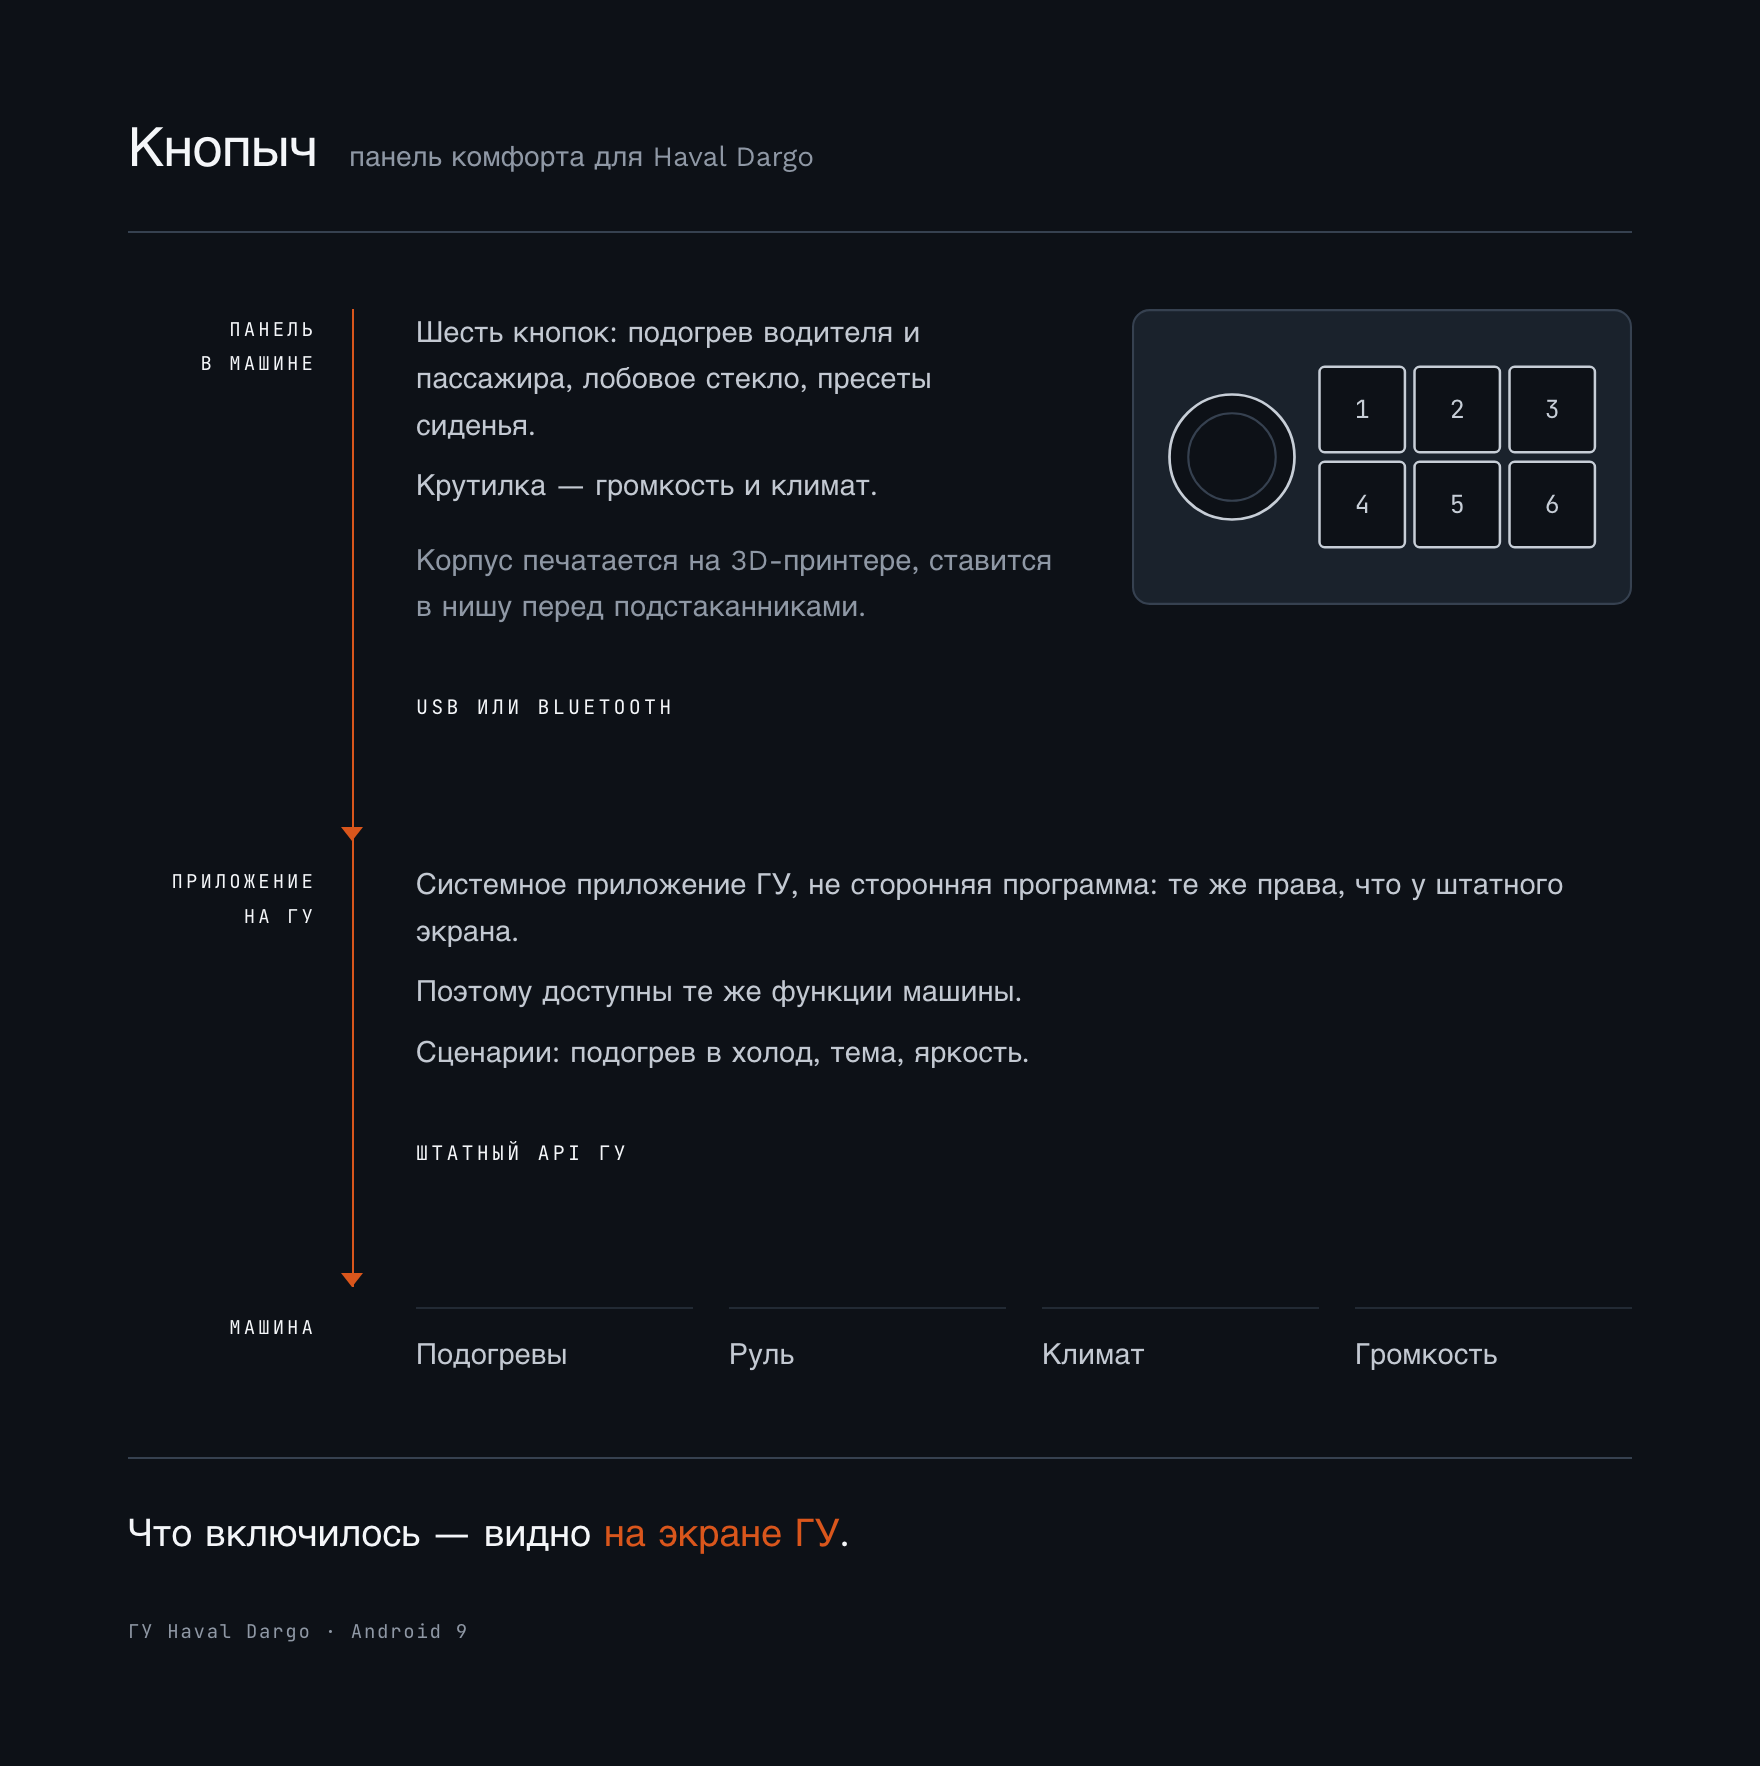
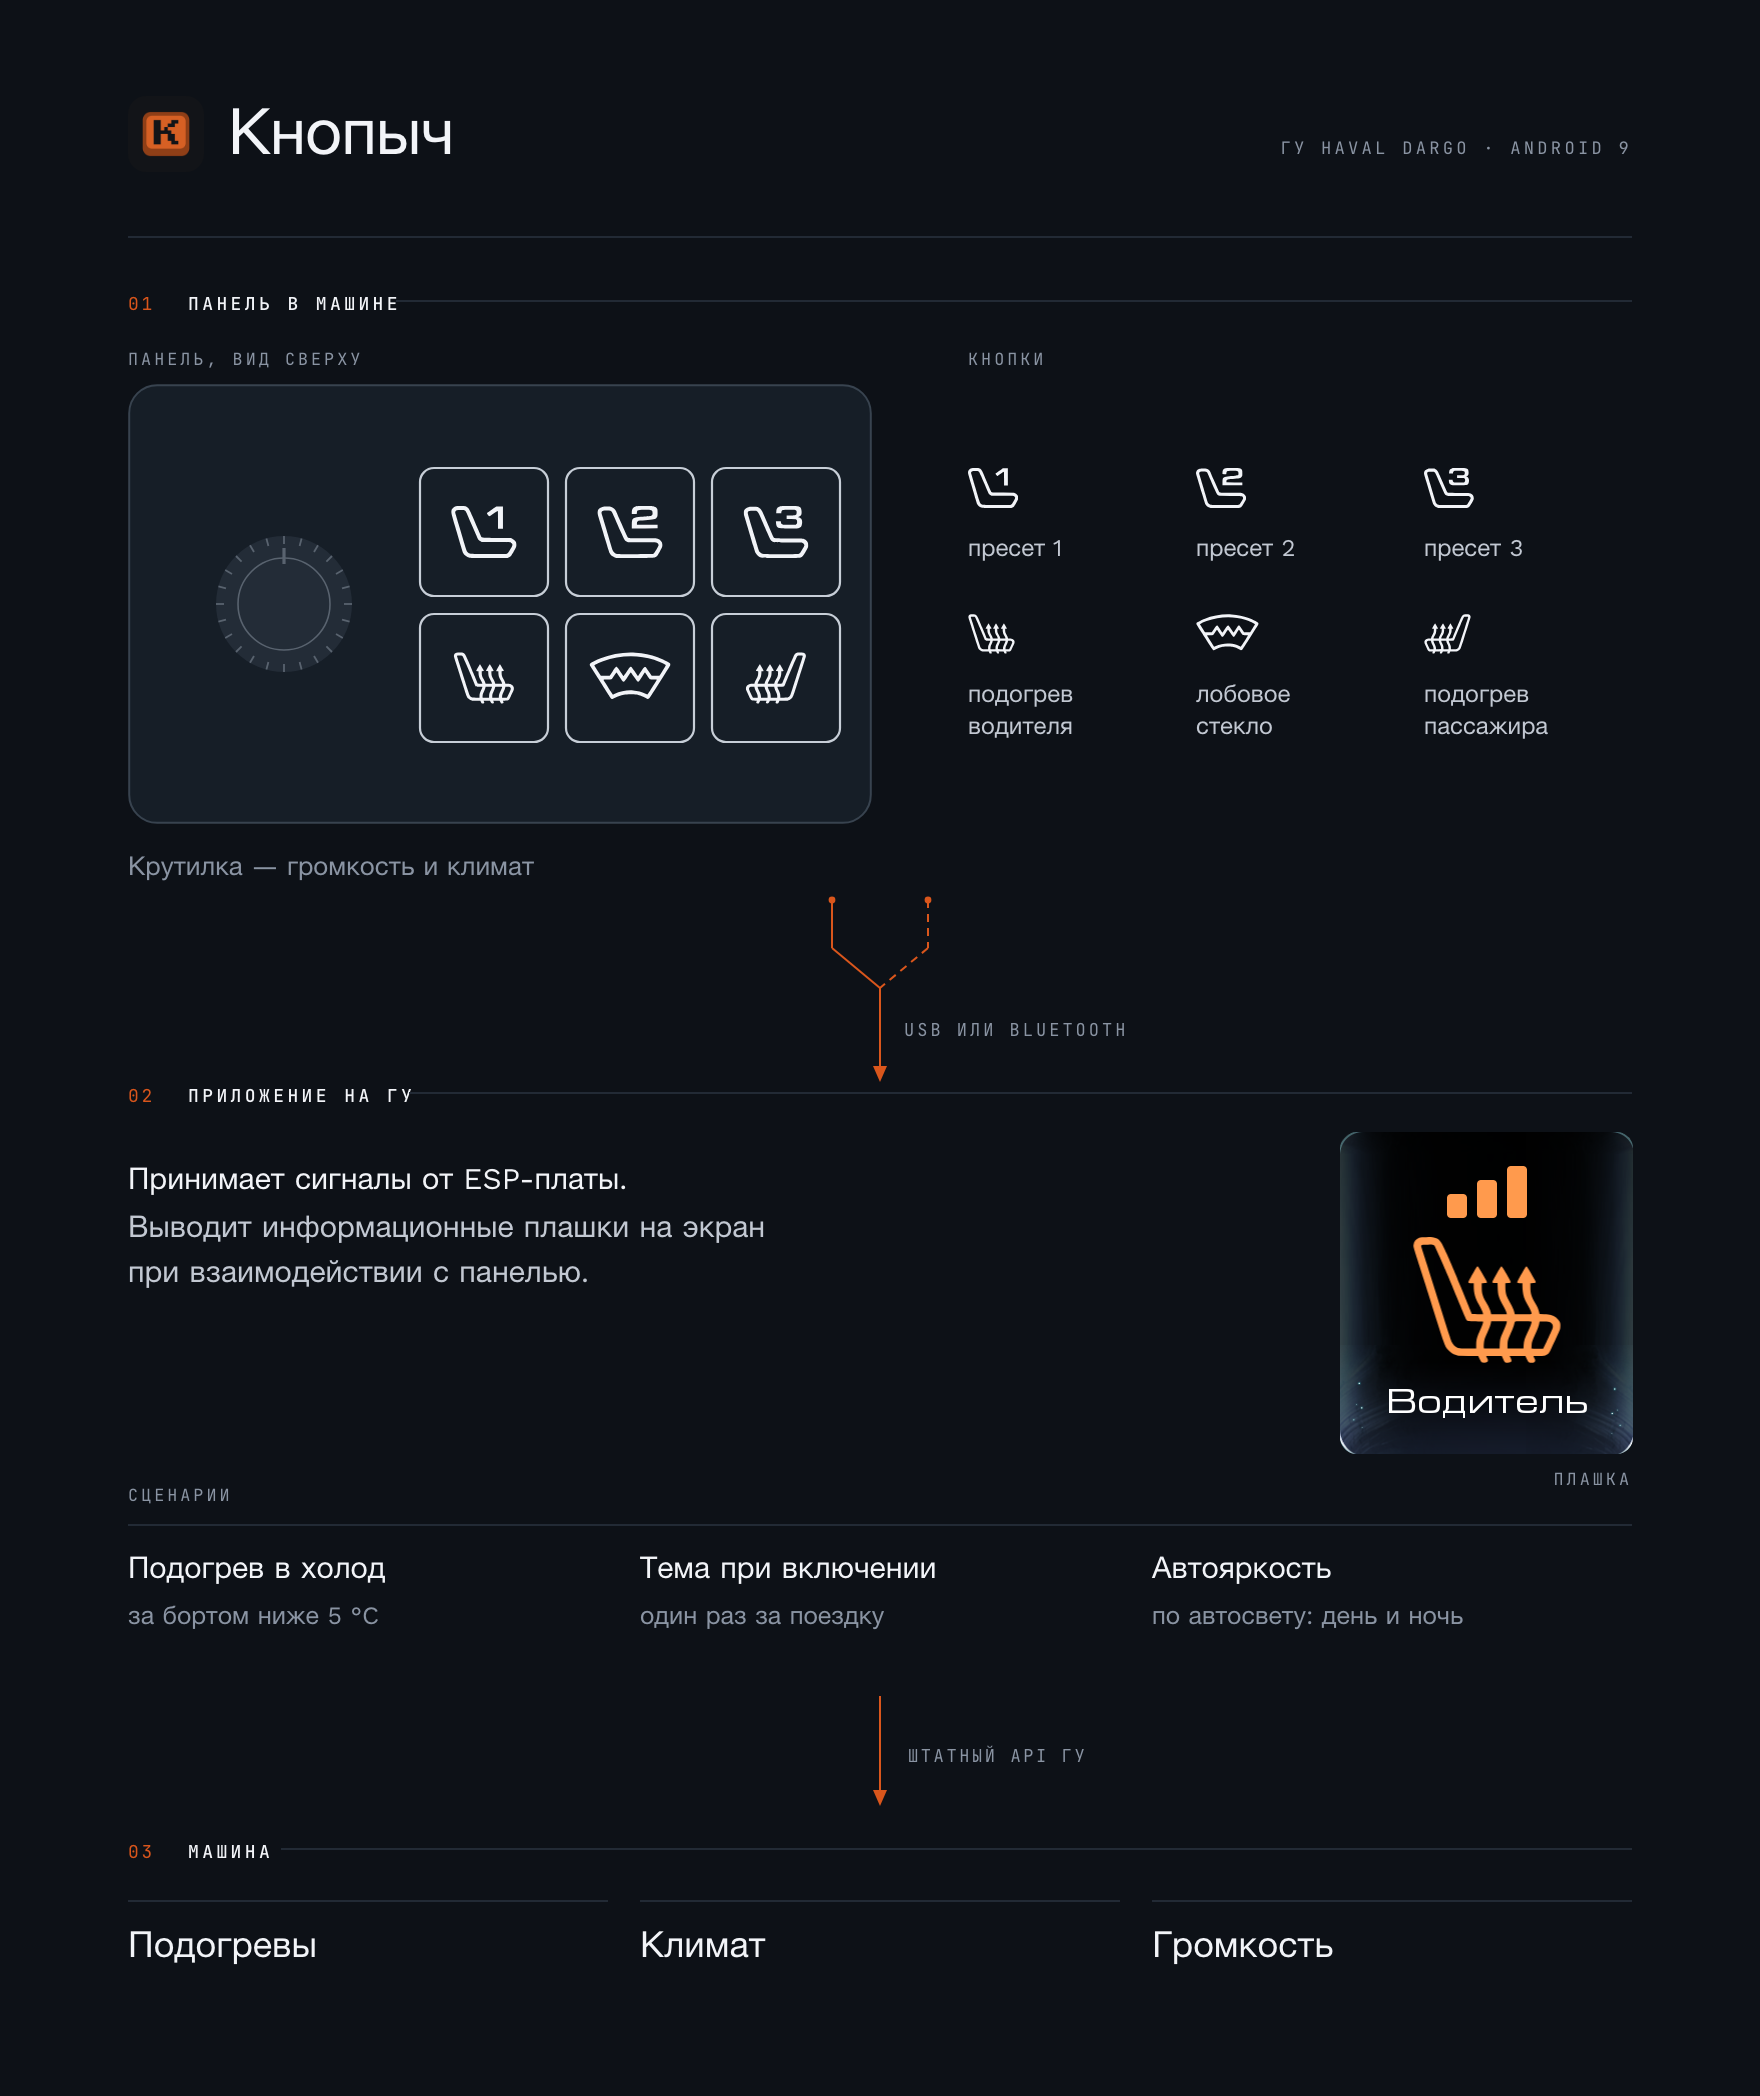
docs: обновить README и диаграммы

diff --git a/README.md b/README.md
@@ -2,15 +2,11 @@
 
 # Кнопыч (Knopych) — физическая панель управления функциями комфорта Haval Dargo
 
+[![Telegram](https://img.shields.io/badge/Telegram-%40knopych__tg-26a5e4?labelColor=555)](https://t.me/knopych_tg) [![Поддержать](https://img.shields.io/badge/%D0%9F%D0%BE%D0%B4%D0%B4%D0%B5%D1%80%D0%B6%D0%B0%D1%82%D1%8C-%D0%A1%D0%91%D0%9F-007ec6?labelColor=555)](https://finance.ozon.ru/apps/sbp/ozonbankpay/01a219a6-c1a6-7aa8-8891-a9f7f3a7dfeb)
+
 Панель с шестью кнопками для подогревов, пресетов сиденья, громкости и климата.
 Ставится в нишу перед подстаканниками, печатается на 3D-принтере, связана с головным
 устройством по USB или Bluetooth.
-
-<picture>
-  <source media="(prefers-color-scheme: dark)" srcset="docs/diagram-dark.png">
-  <source media="(prefers-color-scheme: light)" srcset="docs/diagram-light.png">
-  <img src="docs/diagram.png" width="1100" alt="Схема: панель на ESP32-S3 по USB и BLE связана с мостом на ГУ, мост вызывает API прошивки машины">
-</picture>
 
 **Что даёт**
 
@@ -19,9 +15,9 @@
 - Обратная связь — на экране ГУ: включённый подогрев и выбранный слот сиденья видны
   на плашке. Светодиоды кнопок прошивка не зажигает: панель только шлёт нажатия.
 - Крутилка — громкость. Когда открыт экран климата — задаёт температуру,
-  с удержанием — вентилятор. Нажатие крутилки открывает и закрывает климат.
-- Сценарии на ГУ: «подогрев в холод», тема при включении, автояркость по сигналу
-  автосвета.
+  с зажатой кнопкой крутилки — вентилятор. Нажатие крутилки открывает климат,
+  короткое нажатие при открытом — закрывает.
+- Сценарии на ГУ: «подогрев в холод», тема при включении, автояркость день/ночь.
 - Плашка подогрева появляется поверх любого экрана на 2,5 с — уровень видно, не
   открывая ГУ.
 
@@ -31,13 +27,19 @@
 
 ## Как это работает
 
-1. Нажимаешь кнопку — панель шлёт по USB (или по BLE) строку `!btn N`.
+1. Нажимаешь кнопку — панель шлёт нажатие сразу по USB (`!btn N`) и по BLE
+   (`btn N`, без `!`).
 2. Мост «Кнопыч» на ГУ вызывает ту же функцию климата, что и штатный экран.
 3. Машина сообщает новое состояние — мост показывает плашку на экране ГУ: что
    включилось. USB и BLE работают одновременно.
 
 Мост подписан тем же ключом, что и прошивка ГУ, поэтому получает системные права и
 видит внутренний API. Протокол панели — [docs/firmware.md](docs/firmware.md).
+
+<picture>
+  <source media="(prefers-color-scheme: dark)" srcset="docs/diagram-dark.png">
+  <img src="docs/diagram.png" width="880" alt="Схема: панель в машине связана по USB или Bluetooth с приложением на ГУ, приложение вызывает функции машины, результат виден на экране ГУ">
+</picture>
 
 ## Из чего состоит
 
